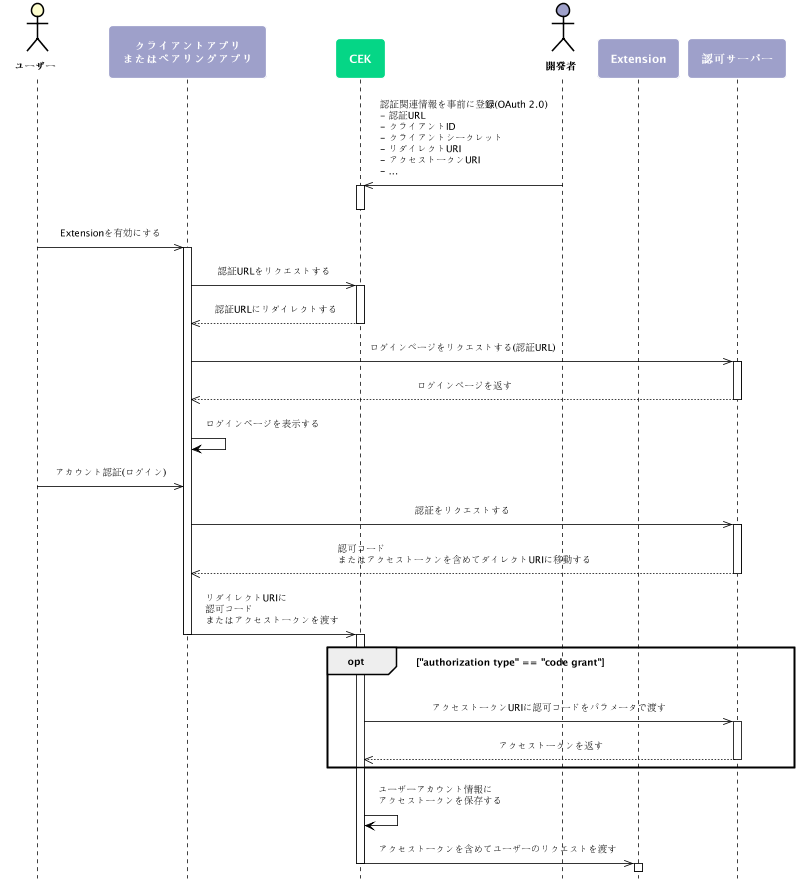
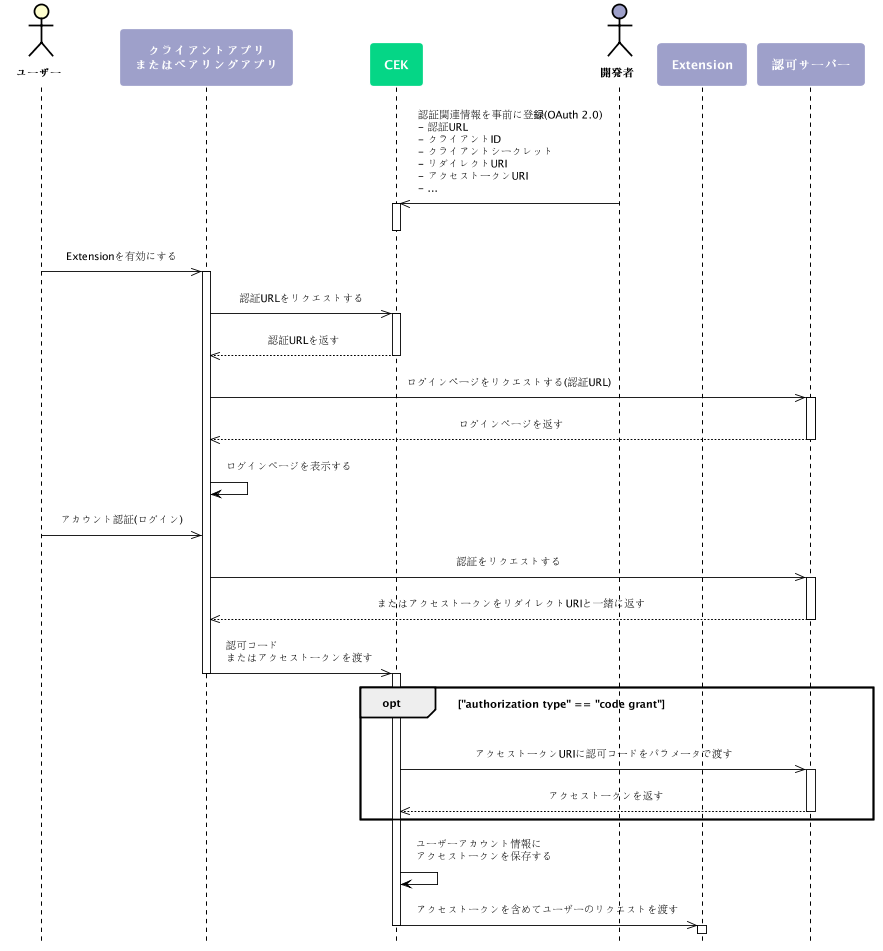
Update diagram and description of user account linking

diff --git a/ja/CEK/Guides/Link_User_Account.md b/ja/CEK/Guides/Link_User_Account.md
@@ -28,7 +28,7 @@ Clovaは、[Custom Extension](/CEK/Guides/Build_Custom_Extension.md)、または
 
 3. ユーザーがアカウント認証を完了すると、認可コードまたはアクセストークンが返されます。
 
-4. 渡された認可コードまたはアクセストークンがリダイレクトURLからClovaに渡されます。
+4. クライアントは渡された認可コードまたはアクセストークンをCARに渡さます。
 
 5. **(ステップ3で認可コードが渡された場合)**Clovaは、**[アクセストークンURI](#RegisterAccountLinkingInfo)**にアクセストークンとリフレッシュトークンをリクエストします。その際、認可コードを渡し、取得したアクセストークンとリフレッシュトークンをユーザーのClovaアカウントに保存します。
 

diff --git a/ko/CEK/Guides/Link_User_Account.md b/ko/CEK/Guides/Link_User_Account.md
@@ -28,7 +28,7 @@ Clova는 [custom extension](/CEK/Guides/Build_Custom_Extension.md)이나 [Clova 
 
 3. 사용자가 계정 인증을 완료하면 authorization code 혹은 access token이 반환됩니다.
 
-4. 전달받은 authorization code 혹은 access token은 redirect URL을 통해 Clova로 전달됩니다.
+4. 클라이언트는 전달받은 authorization code 혹은 access token을 Clova로 전달합니다.
 
 5. **(3번 단계에서 authorization code를 받은 경우)** Clova는 **[Access Token URI](#RegisterAccountLinkingInfo)**로 access token과 refresh token을 요청합니다. 이때 authorization code를 전달하며, 사용자의 Clova 계정 정보에 획득한 access token과 refresh token을 저장합니다.
 
